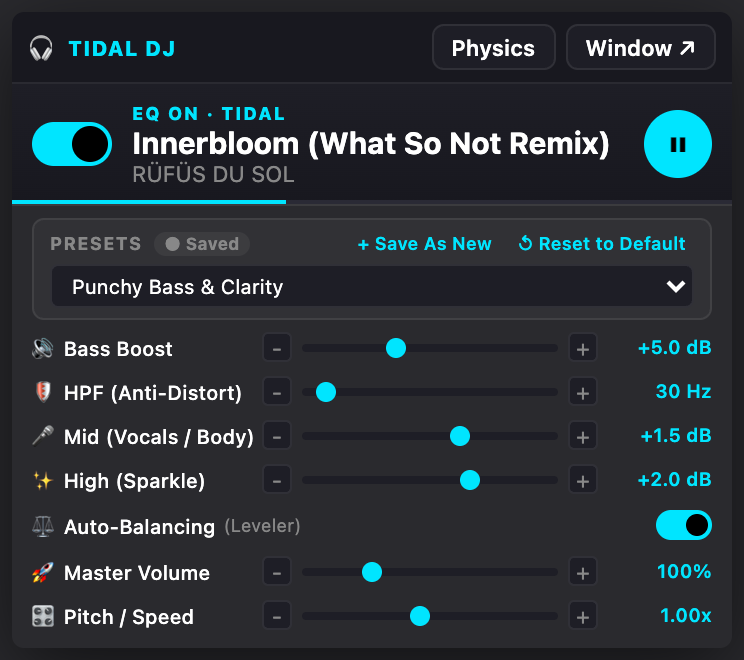
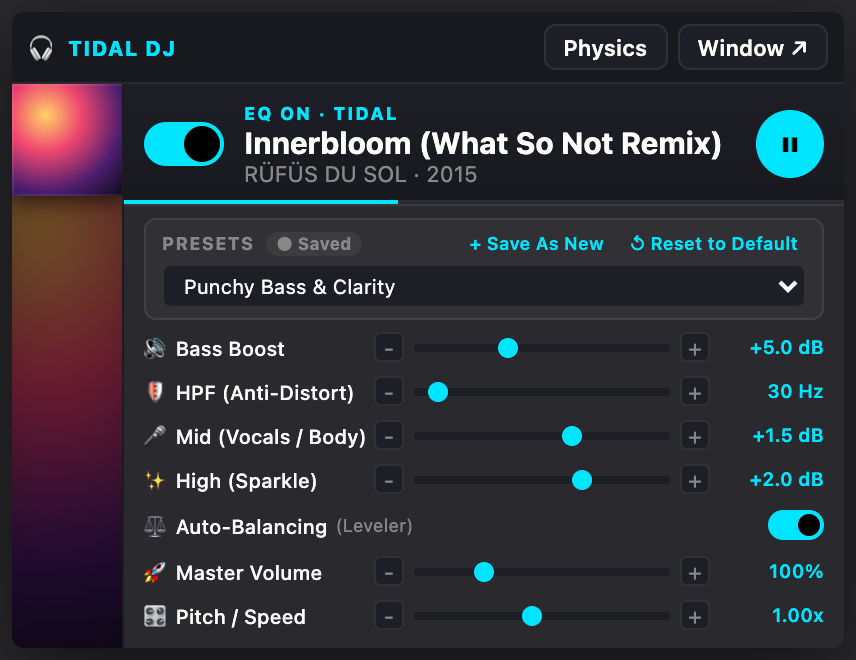
docs: mockups get the cover-art strip and release year (R-08); real-Tidal title/play confirmed; year needs a source decision

diff --git a/docs/mockups/popup-variants.html b/docs/mockups/popup-variants.html
@@ -16,7 +16,18 @@
     html { background: #2a2a2e; }
     body { margin: 0; }
     body.page { padding: 18px 0 18px 18px; width: auto; min-width: 0; overflow: visible; background: #2a2a2e; }
-    body.page .popup-container { width: 360px; box-shadow: 0 10px 40px rgba(0,0,0,0.6); border-radius: 6px; }
+    body.page .popup-container { width: 416px; box-shadow: 0 10px 40px rgba(0,0,0,0.6); border-radius: 6px; }
+    body.page .popup-main { width: 416px; flex-basis: 416px; }
+    .body-row { display: flex; flex-direction: row; align-items: stretch; }
+    .col { flex: 1; min-width: 0; display: flex; flex-direction: column; }
+
+    /* Cover-art strip: the square cover at the top, the same art blurred as a spine down the side.
+       Placeholder art (a gradient) stands in for the real cover. */
+    :root { --cover: radial-gradient(circle at 30% 28%, #ffd166 0, #ef476f 32%, #4b1d6e 68%, #0b0b16 100%); }
+    .art-strip { width: 56px; flex: 0 0 56px; position: relative; overflow: hidden; background: #0e0e12; border-right: 1px solid rgba(255,255,255,0.06); }
+    .art-strip .art-bg { position: absolute; inset: -20px; background: var(--cover); background-size: cover; filter: blur(16px) saturate(1.2) brightness(0.42); }
+    .art-strip .art-cover { position: relative; width: 56px; height: 56px; background: var(--cover); background-size: cover; box-shadow: 0 3px 10px rgba(0,0,0,0.6); }
+    .art-strip .art-cover::after { content: ""; position: absolute; inset: 0; box-shadow: inset 0 0 0 1px rgba(255,255,255,0.08); }
     .switcher { font: 12px -apple-system, sans-serif; color: #ccc; margin-bottom: 12px; display: flex; gap: 10px; flex-wrap: wrap; }
     .switcher a { color: #7fe8ff; }
     .switcher a.on { color: #fff; font-weight: 700; text-decoration: none; }
@@ -160,7 +171,7 @@
       <div class="np-text">
         <div class="np-state">EQ ON · TIDAL</div>
         <div class="np-title">Innerbloom (What So Not Remix)</div>
-        <div class="np-artist">RÜFÜS DU SOL</div>
+        <div class="np-artist">RÜFÜS DU SOL · 2015</div>
       </div>
       <button class="np-play">⏸</button>
     </div>
@@ -172,7 +183,7 @@
   <template id="player-pb">
     <div class="np-line">
       <label class="switch np-switch" title="EQ on / off"><input type="checkbox" checked><span class="slider-round"></span></label>
-      <div class="np-words"><b>EQ ON</b> · Innerbloom (What So Not Remix) <span>— RÜFÜS DU SOL</span></div>
+      <div class="np-words"><b>EQ ON</b> · Innerbloom (What So Not Remix) <span>— RÜFÜS DU SOL · 2015</span></div>
     </div>
   </template>
 
@@ -181,7 +192,7 @@
     <div class="np-c">
       <div class="np-text">
         <div class="np-title">Innerbloom (What So Not Remix)</div>
-        <div class="np-artist">RÜFÜS DU SOL · 2:41 / 9:38</div>
+        <div class="np-artist">RÜFÜS DU SOL · 2015 · 2:41 / 9:38</div>
       </div>
       <button class="np-btn">⏮</button>
       <button class="np-play">⏸</button>
@@ -226,9 +237,9 @@
 
   <script>
     const VARIANTS = {
-      pa: { header: 'header-current', player: 'player-pa', caption: 'Player A (recommended): one strip. Big EQ switch, big title, play/pause. No art, seek bar, skips, volume or favourite.' },
-      pb: { header: 'header-current', player: 'player-pb', caption: 'Player B: a single status line, no playback controls at all.' },
-      pc: { header: 'header-current', player: 'player-pc', caption: 'Player C: bigger title with ⏮ ▶ ⏭; the EQ row stays separate. No seek bar, skips, art or volume.' },
+      pa: { header: 'header-current', player: 'player-pa', caption: 'Player A (recommended): cover-art strip on the left, big EQ switch, big title, year, play/pause. No seek bar, skips, volume or favourite.' },
+      pb: { header: 'header-current', player: 'player-pb', caption: 'Player B: cover-art strip on the left, a single status line with the year, no playback controls.' },
+      pc: { header: 'header-current', player: 'player-pc', caption: 'Player C: cover-art strip on the left, bigger title with year and ⏮ ▶ ⏭; the EQ row stays separate. No seek bar, skips or volume.' },
       h1: { header: 'header-h1', player: 'player-pa', caption: 'Header 1 (recommended): three words. Physics · Window · ⋯ (menu shown open). Removes Size, Micro and On Top buttons.' },
       h2: { header: 'header-h2', player: 'player-pa', caption: 'Header 2: two buttons only. Theme moves into the Physics panel; floating button and compact bar are dropped.' },
       h3: { header: 'header-h3', player: 'player-pa', caption: 'Header 3: today\'s icons with captions. On Top and Size removed (On Top only opened the same window).' }
@@ -236,9 +247,14 @@
     const params = new URLSearchParams(location.search);
     const v = VARIANTS[params.get('variant')] ? params.get('variant') : 'pa';
     const main = document.getElementById('main');
-    for (const id of [VARIANTS[v].header, VARIANTS[v].player, 'eq']) {
-      main.appendChild(document.getElementById(id).content.cloneNode(true));
-    }
+    main.appendChild(document.getElementById(VARIANTS[v].header).content.cloneNode(true));
+    const row = document.createElement('div'); row.className = 'body-row';
+    const strip = document.createElement('div'); strip.className = 'art-strip';
+    strip.innerHTML = '<div class="art-bg"></div><div class="art-cover" title="Album cover (placeholder)"></div>';
+    const col = document.createElement('div'); col.className = 'col';
+    for (const id of [VARIANTS[v].player, 'eq']) col.appendChild(document.getElementById(id).content.cloneNode(true));
+    row.append(strip, col);
+    main.appendChild(row);
     document.getElementById('caption').textContent = VARIANTS[v].caption;
     const sw = document.getElementById('switcher');
     if (params.get('shot')) { sw.remove(); document.getElementById('caption').remove(); }

diff --git a/docs/DESIGN_DECISIONS.md b/docs/DESIGN_DECISIONS.md
@@ -36,7 +36,8 @@ Your direction, summarised: you love the sound; the UI should be minimal and leg
 | R-02 | Physics | Physics visual slides out **beside** the player, not over it; both visible at once | **Chosen: side panel** (300 px, docks to the right; the popup widens to 660 px; Chrome's limit is 800). Open/closed state is remembered. Canvas colours follow the popup theme (the drawer's own theme pills are gone). Per-stage ℹ buttons folded into one Guide. Subtitle now says it is a model of the settings, not a live meter. | Your request; honesty about what the animation is. | Physics drawer → side panel; standalone window resizes to fit | Implemented in 1.2.0; W-PHYSICS-SIDE PASS; **your visual check pending** |
 | R-03 | EQ layout | Remove the empty space above and below the sliders | **Chosen**: the popup is now only as tall as its content (336 px instead of 540 px); rows pack from the top. The standalone window sizes itself to the content too. | Dead space came from a fixed 540 px height sized for the Lab tab. | Popup, standalone window | Implemented; W-NO-DEAD-SPACE PASS (0 px slack, 5 px above, 8 px below) |
 | R-04 | Player bar | Remove the ♥ favourite button (“it doesn't work”) | **Chosen: removed** from popup, Micro and PiP. Supersedes D-03. | Not reliable on Tidal; one fewer control. | Player bar, Micro, PiP, `content.js` favourite scraping | Implemented; W-TRANSPORT-SCOPE now proves the page's favourite is never clicked |
-| R-05 | Player bar | “Song section is useless; re-imagine it: minimal, important parts stand out, legible” | **Open: options A/B/C** in [mockups/](mockups/) (`pa.png`, `pb.png`, `pc.png`). Assistant recommends **A** (one strip: big EQ switch + big title/artist + play/pause, hairline progress; drops art, seek bar, −25 %/+25 %, volume). | A makes the EQ switch the dominant control and shows what is being processed (covers Q1.3). | Player bar, status bar, Micro | Awaiting your pick; also need to know whether title/artist and ▶ work on real Tidal today |
+| R-05 | Player bar | “Song section is useless; re-imagine it: minimal, important parts stand out, legible” | **Open: options A/B/C** in [mockups/](mockups/) (`pa.png`, `pb.png`, `pc.png`). Assistant recommends **A** (one strip: big EQ switch + big title/artist + play/pause, hairline progress; drops seek bar, −25 %/+25 %, volume). | A makes the EQ switch the dominant control and shows what is being processed (covers Q1.3). | Player bar, status bar, Micro | Awaiting your pick. **You confirmed (2026-10-01, 1.2.0 on real Tidal): title/artist correct and play/pause works.** |
+| R-08 | Player bar | Add a **vertical cover-art strip on the left** to every option, and show the **year of original release** | **Mockups updated** (all six): 56 px strip below the header, square cover at the top, the same art blurred as a spine down the side; popup widens to 416 px so the sliders keep their length. Year shown after the artist. | Your request. | Player bar, popup width, metadata source | Strip: ready to build on your pick. **Year: needs a data-source decision** (see REVIEW_READY): Tidal's player bar carries no year; the choices are Tidal's own album data (edition year, needs a request with your Tidal session), MusicBrainz first-release year (sends title+artist to musicbrainz.org), or no year. |
 | R-06 | Header | “Top icons confusing and cluttered; too many attach/detach/minimise” | **Open: options 1/2/3** in [mockups/](mockups/) (`h1.png`, `h2.png`, `h3.png`). Assistant recommends **1** (words: Physics · Window · ⋯ menu for Theme / Floating button / Compact bar). 📌 On Top removed in every option: it only ever opened the same window as 🗗 (Document PiP cannot be opened from the popup). | Fewer, named actions; one detached form (the window), the always-on-top PiP kept as an option behind the floating button. | Header, Micro, Wide, Undock, On Top, Theme | Awaiting your pick |
 | R-07 | Presets | “Presets changed; some old defaults moved into My Custom Presets; tell me before any preset change” | **Rule adopted (CLAUDE.md)**: no factory preset is added, renamed, re-tuned, reordered or removed, and no stored presets are migrated, without your explicit OK, shown as a before/after list. **Cause (assistant finding)**: an earlier version shipped *Deep Bass Head* and *Vocal Focus* as defaults (old README); later versions replaced them. Your copy kept the old ones, and the popup files anything not in the current factory list under “My Custom Presets”. If a default was re-tuned, your copy also kept its older values. | Presets are yours. | Factory list, `onInstalled` merge, cut-over migration | Rule in force. Fix needs your actual list (see REVIEW_READY “What I need from you”). No preset data was changed in 1.2.0. |
 

diff --git a/REVIEW_READY.md b/REVIEW_READY.md
@@ -49,9 +49,10 @@ Toolbar popup (player bar · AUDIO EQ · presets · sliders), Physics side panel
 
 ## What I need from you
 
-1. Click **Reload** on the review card; confirm **1.2.0**; open 🔬 and tell me if the side panel looks right.
-2. Pick a player bar (A/B/C) and a header (1/2/3) from the mockups, or say what you'd change.
-3. For the presets: the list from your everyday copy. In the everyday Chrome profile, right-click the extension icon → **Inspect popup** → **Console** tab → paste the line below → copy what it prints into our chat. It only reads; it changes nothing.
+1. ~~Load 1.2.0~~ Done (2026-10-01): loaded in your review profile; title/artist and play/pause confirmed on real Tidal. Still open: open 🔬 and tell me if the side panel looks right.
+2. Pick a player bar (A/B/C) and a header (1/2/3) from the mockups (now with the cover-art strip and year), or say what you'd change.
+3. **Year of original release: pick a source.** Tidal's player bar has no year, so one of: (a) Tidal's own album data: the year of the album edition you're playing (remasters show the remaster year), fetched from Tidal using your signed-in session (this re-adds a Tidal request, which 1.2.0 removed); (b) **MusicBrainz** first-release year: the real original year, but the extension would send each track's title and artist to musicbrainz.org (free, no account, no key); (c) no year. Assistant's recommendation: (b) if you're comfortable with that lookup, otherwise (a).
+4. For the presets: the list from your everyday copy. In the everyday Chrome profile, right-click the extension icon → **Inspect popup** → **Console** tab → paste the line below → copy what it prints into our chat. It only reads; it changes nothing.
    `chrome.storage.local.get(['presets','currentPreset'], d => console.log(JSON.stringify(d, null, 1)))`
 
 ## Remaining known issues

diff --git a/docs/PLAN_AND_ACCEPTANCE.md b/docs/PLAN_AND_ACCEPTANCE.md
@@ -43,10 +43,10 @@ Current review build: **v1.2.0**, runtime commit `a92a3c0`, fingerprint `467808d
 | U-NO-NETWORK | No `fetch`/XHR/Tidal API in shipped scripts | unit | — | — | PASS |
 | U-RETIRED | Playlists/Lab/favourite markup and commands stay out | unit | — | — | PASS |
 | W-TOOLBAR-INVOKE | EQ via a real toolbar click (activeTab grant) | user | NOT RUN | NOT RUN | NOT RUN |
-| W-PHYSICS-VISUAL | Side panel looks right in your Chrome (width, animation, Retina) | user-visual | — | — | NOT RUN |
+| W-PHYSICS-VISUAL | Side panel looks right in your Chrome (width, animation, Retina) | user-visual | — | — | NOT RUN (1.2.0 is now loaded in your review profile) |
 | W-PIP-FLOATING | Document PiP from the in-page floating button | user | NOT RUN | NOT RUN | NOT RUN |
 | W-SHORTCUTS | Alt+M / Alt+E in real Chrome | user | NOT RUN | NOT RUN | NOT RUN |
-| W-REAL-TIDAL-TRANSPORT | Transport and metadata on real listen.tidal.com | real-tidal | BLOCKED | BLOCKED | BLOCKED (needs your session; I don't contact Tidal). Your answer to R-05 tells us whether title/▶ work today. |
+| W-REAL-TIDAL-TRANSPORT | Transport and metadata on real listen.tidal.com | real-tidal | BLOCKED | BLOCKED | **PARTLY PASS (your report, 2026-10-01)**: title and artist correct, play/pause works. Prev/next, seek, skips and volume not yet reported. |
 | ~~W-REAL-TIDAL-PLAYLISTS~~ | Lab on real playlists | real-tidal | BLOCKED | BLOCKED | RETIRED |
 | W-LISTEN | Sound quality, presets, no pumping or distortion | user-listening | NOT RUN | NOT RUN | **PARTLY**: you reported liking the sound (2026-10-01); extreme-boost check still open |
 | W-LIVE-INSTALL | Everyday install untouched | static | PASS | PASS | PASS (old folder byte-identical; profile unreadable, so ID unconfirmed) |
